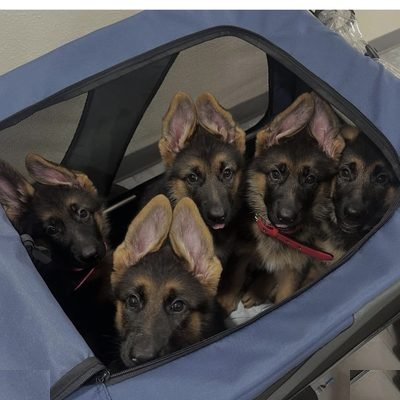
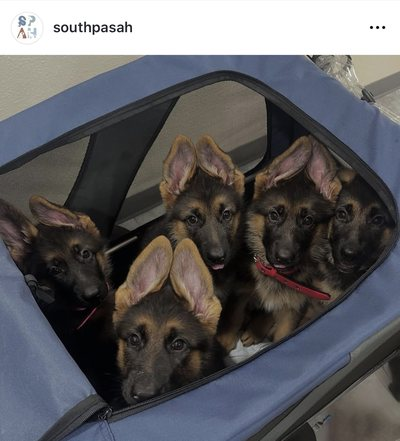
Update Instagram carousel: post-style tiles, linked to IG posts
- Taller tiles showing full Instagram post frame with @southpasah header
- Removed photo counter badges (1/6, 3/6, 3/3) and UI artifacts
- All 5 photos now link to their actual Instagram posts when clicked
- Adjusted tile size and mobile breakpoints for post aspect ratio

diff --git a/about.html b/about.html
@@ -252,7 +252,7 @@
   <style>
     .ig-carousel-wrapper {
       position: relative;
-      height: 180px;
+      height: 200px;
       width: 100%;
       cursor: grab;
       user-select: none;
@@ -269,15 +269,15 @@
     }
     .ig-carousel-cylinder {
       position: relative;
-      width: 130px;
-      height: 130px;
+      width: 150px;
+      height: 165px;
       transform-style: preserve-3d;
       transition: transform 0.05s linear;
     }
     .ig-card {
       position: absolute;
-      width: 120px;
-      height: 120px;
+      width: 140px;
+      height: 154px;
       backface-visibility: hidden;
       border-radius: 10px;
       overflow: hidden;
@@ -286,14 +286,15 @@
       transition: box-shadow 0.3s ease;
       left: 50%;
       top: 50%;
-      margin-left: -60px;
-      margin-top: -60px;
+      margin-left: -70px;
+      margin-top: -77px;
     }
     .ig-card:hover { box-shadow: 0 8px 24px rgba(0,0,0,0.18); }
     .ig-card img {
       width: 100%;
       height: 100%;
       object-fit: cover;
+      object-position: top;
       display: block;
       border-radius: 10px;
       pointer-events: none;
@@ -348,9 +349,9 @@
     .ig-overlay-close:hover { transform: scale(1.1); }
 
     @media (max-width: 640px) {
-      .ig-carousel-wrapper { height: 130px; }
-      .ig-carousel-cylinder { width: 100px; height: 100px; }
-      .ig-card { width: 90px; height: 90px; margin-left: -45px; margin-top: -45px; border-radius: 8px; }
+      .ig-carousel-wrapper { height: 155px; }
+      .ig-carousel-cylinder { width: 110px; height: 121px; }
+      .ig-card { width: 105px; height: 116px; margin-left: -52px; margin-top: -58px; border-radius: 8px; }
       .ig-card img { border-radius: 8px; }
     }
   </style>
@@ -360,17 +361,17 @@
     // ========== INSTAGRAM PHOTOS & LINKS ==========
     // Each entry: { src: image path, link: Instagram post URL, alt: description }
     const igPhotos = [
-      { src: "images/instagram/IMG_4735.jpg", link: "", alt: "Valentine's Day dog with heart headband at South Pasadena Animal Hospital" },
-      { src: "images/instagram/IMG_4736.jpg", link: "", alt: "Fluffy dog in pink Valentine's outfit at South Pasadena Animal Hospital" },
-      { src: "images/instagram/IMG_4737.jpg", link: "", alt: "German Shepherd puppies visiting South Pasadena Animal Hospital" },
-      { src: "images/instagram/IMG_4739.jpg", link: "", alt: "St. Patrick's Day dog with green hat at South Pasadena Animal Hospital" },
-      { src: "images/instagram/IMG_4741.jpg", link: "", alt: "Cat wearing a tie at South Pasadena Animal Hospital" },
+      { src: "images/instagram/IMG_4735.jpg", link: "https://www.instagram.com/p/DUrZTp6gTz1/?img_index=1", alt: "Valentine's Day dog with heart headband at South Pasadena Animal Hospital" },
+      { src: "images/instagram/IMG_4736.jpg", link: "https://www.instagram.com/p/DUrZTp6gTz1/?img_index=3", alt: "Fluffy dog in pink Valentine's outfit at South Pasadena Animal Hospital" },
+      { src: "images/instagram/IMG_4737.jpg", link: "https://www.instagram.com/p/DBZMSZ-pxvs/", alt: "German Shepherd puppies visiting South Pasadena Animal Hospital" },
+      { src: "images/instagram/IMG_4739.jpg", link: "https://www.instagram.com/p/DL0QWhhyEn6/", alt: "St. Patrick's Day dog with green hat at South Pasadena Animal Hospital" },
+      { src: "images/instagram/IMG_4741.jpg", link: "https://www.instagram.com/p/DHUdem3ye9t/?img_index=3", alt: "Cat wearing a tie at South Pasadena Animal Hospital" },
       // Duplicate to fill out the carousel nicely
-      { src: "images/instagram/IMG_4735.jpg", link: "", alt: "Valentine's Day dog with heart headband at South Pasadena Animal Hospital" },
-      { src: "images/instagram/IMG_4736.jpg", link: "", alt: "Fluffy dog in pink Valentine's outfit at South Pasadena Animal Hospital" },
-      { src: "images/instagram/IMG_4737.jpg", link: "", alt: "German Shepherd puppies visiting South Pasadena Animal Hospital" },
-      { src: "images/instagram/IMG_4739.jpg", link: "", alt: "St. Patrick's Day dog with green hat at South Pasadena Animal Hospital" },
-      { src: "images/instagram/IMG_4741.jpg", link: "", alt: "Cat wearing a tie at South Pasadena Animal Hospital" },
+      { src: "images/instagram/IMG_4735.jpg", link: "https://www.instagram.com/p/DUrZTp6gTz1/?img_index=1", alt: "Valentine's Day dog with heart headband at South Pasadena Animal Hospital" },
+      { src: "images/instagram/IMG_4736.jpg", link: "https://www.instagram.com/p/DUrZTp6gTz1/?img_index=3", alt: "Fluffy dog in pink Valentine's outfit at South Pasadena Animal Hospital" },
+      { src: "images/instagram/IMG_4737.jpg", link: "https://www.instagram.com/p/DBZMSZ-pxvs/", alt: "German Shepherd puppies visiting South Pasadena Animal Hospital" },
+      { src: "images/instagram/IMG_4739.jpg", link: "https://www.instagram.com/p/DL0QWhhyEn6/", alt: "St. Patrick's Day dog with green hat at South Pasadena Animal Hospital" },
+      { src: "images/instagram/IMG_4741.jpg", link: "https://www.instagram.com/p/DHUdem3ye9t/?img_index=3", alt: "Cat wearing a tie at South Pasadena Animal Hospital" },
     ];
     const igImages = igPhotos.map(p => p.src);
     // =============================================================
